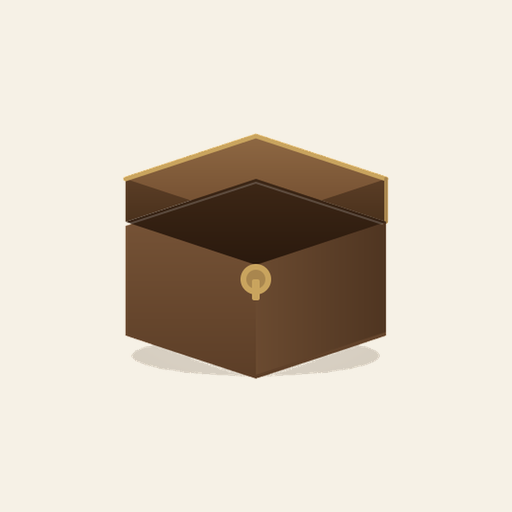
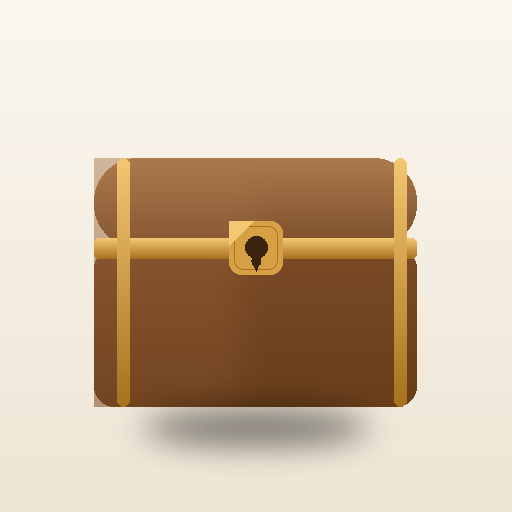
chore: 统一为盖体一体宝箱图标，重做启动屏，剔旧缓存（v2026.09.05.00）

Changed region(s): [[0.1562, 0.25, 0.8125, 0.9375]]

diff --git a/index.html b/index.html
@@ -18,8 +18,8 @@
   <link rel="icon" type="image/png" sizes="96x96" href="favicon-96.png">
   <link rel="icon" type="image/png" sizes="32x32" href="favicon-32.png">
   <link rel="icon" type="image/png" sizes="16x16" href="favicon-16.png">
-  <link rel="apple-touch-icon" href="pwa/apple-touch-icon-0904.png">
-  <link rel="apple-touch-icon" sizes="180x180" href="pwa/apple-touch-icon-0904.png">
+  <link rel="apple-touch-icon" href="pwa/apple-touch-icon-0905.png">
+  <link rel="apple-touch-icon" sizes="180x180" href="pwa/apple-touch-icon-0905.png">
   <!-- iOS 启动图（从主屏幕图标打开时显示品牌启动屏，避免白屏） -->
   <link rel="apple-touch-startup-image" media="screen and (device-width:430px) and (device-height:932px)" href="pwa/splash-6.1.png">
   <link rel="apple-touch-startup-image" media="screen and (device-width:390px) and (device-height:844px)" href="pwa/splash-6.1.png">

diff --git a/sw.js b/sw.js
@@ -6,7 +6,7 @@
    - HTML 导航采用网络优先（保证每次拿到最新页面），静态资源采用 stale-while-revalidate
      （离线秒开、在线自动后台刷新）。
    安全说明：本 SW 只缓存本站静态资源，绝不读写、上传任何 localStorage 用户数据。 */
-var VERSION = '2026.09.04.02';
+var VERSION = '2026.09.05.00';
 var PRE = 'centrove-pre-' + VERSION;
 var RUN = 'centrove-run-' + VERSION;
 
@@ -23,7 +23,8 @@ var PRECACHE_URLS = [
   './favicon-48.png',
   './favicon-96.png',
   './favicon.svg',
-  './pwa/apple-touch-icon-0904.png',
+  './pwa/apple-touch-icon-0905.png',
+  './pwa/apple-touch-icon-1024.png',
   './pwa/icon-192.png',
   './pwa/icon-512.png',
   './pwa/icon-180.png',
